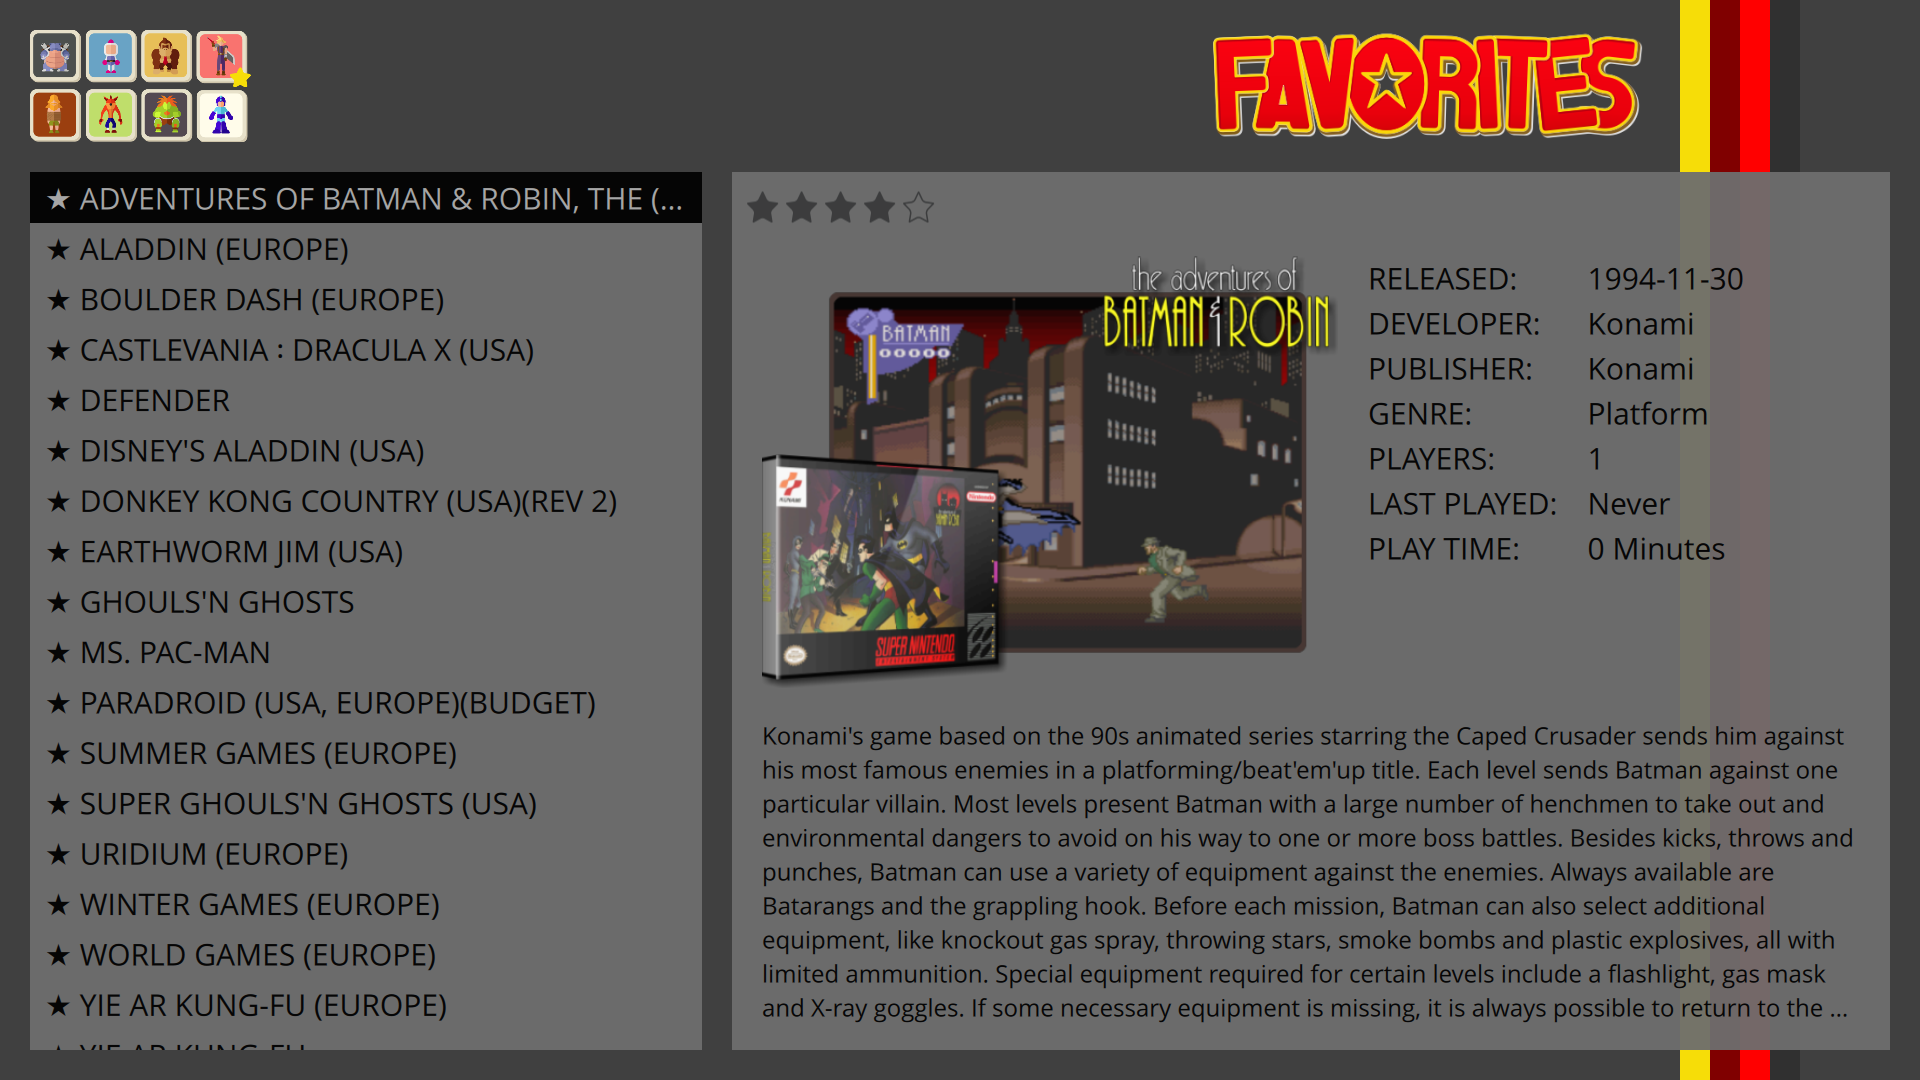
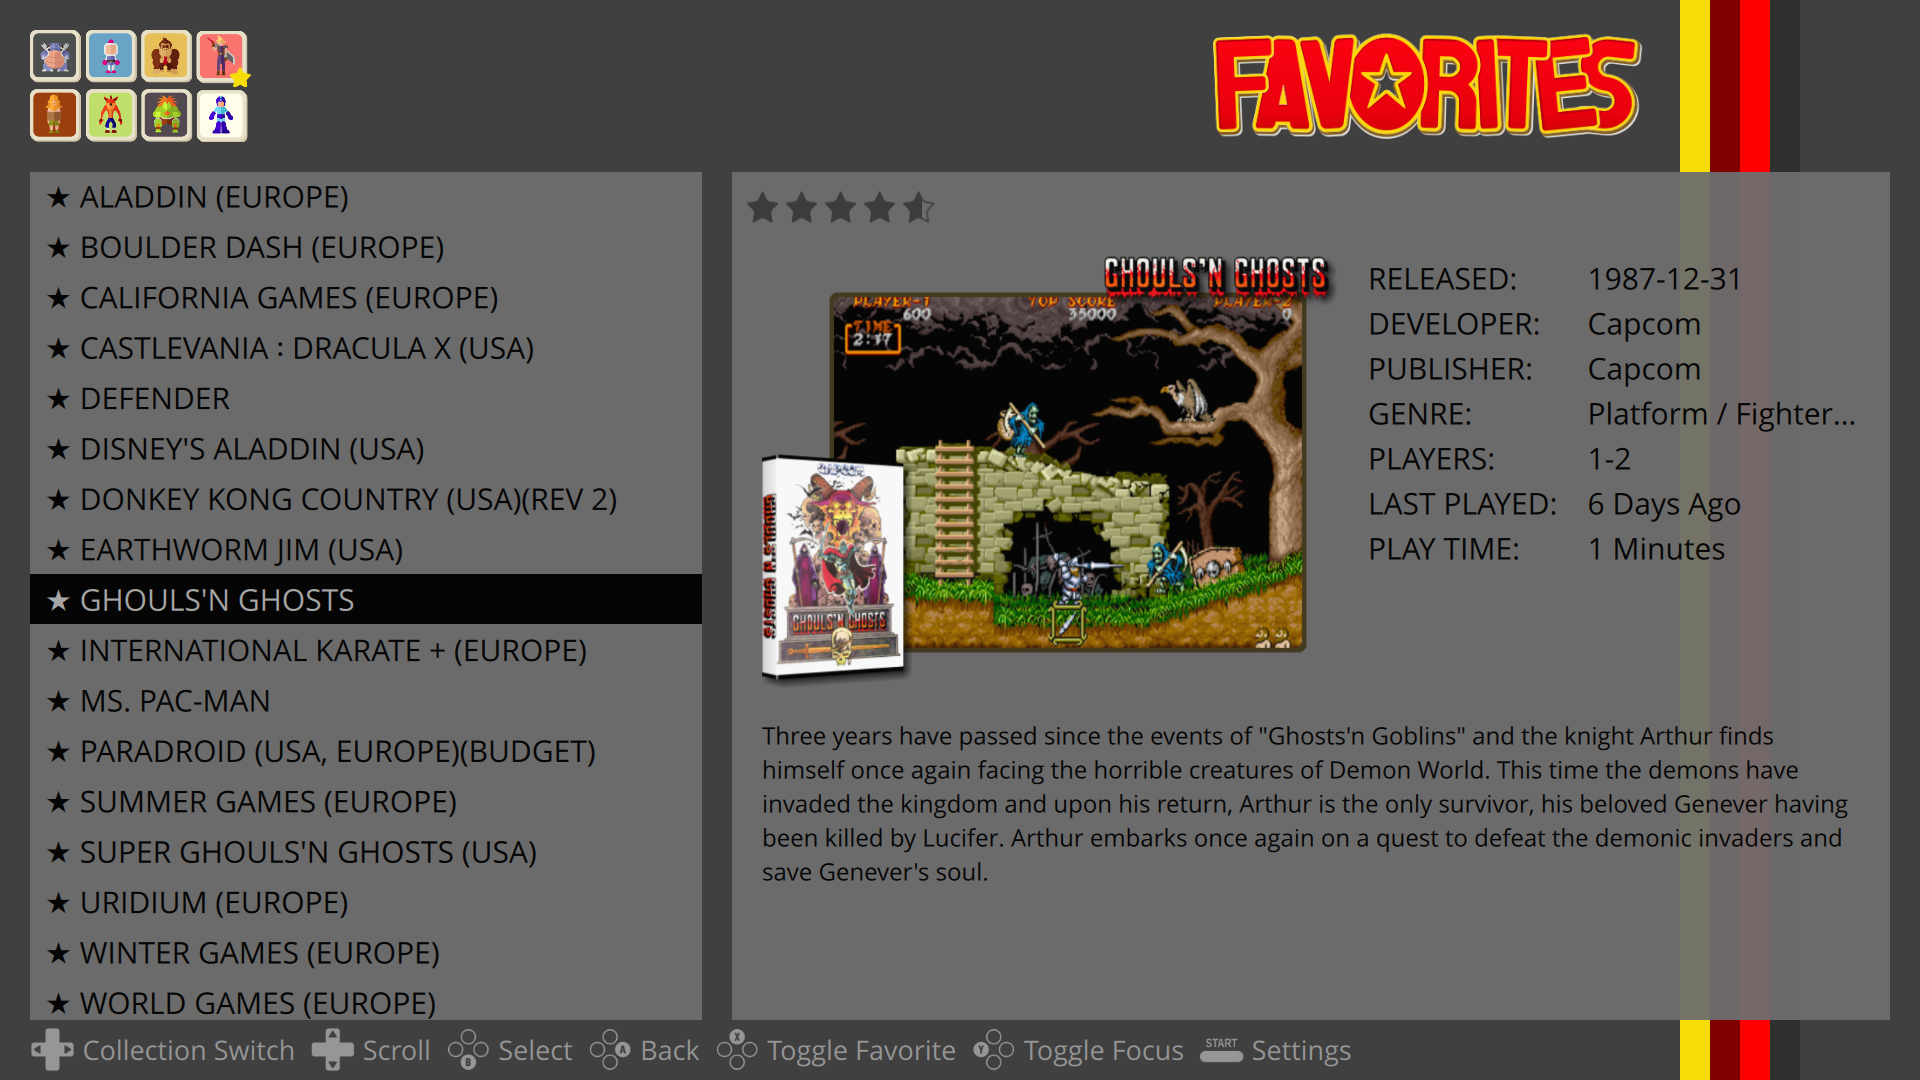
add help footer, updated screenshots

diff --git a/DetailsView.qml b/DetailsView.qml
@@ -229,8 +229,7 @@ FocusScope {
             top: header.bottom
             left: parent.left
             leftMargin: root.padding
-            bottom: parent.bottom
-            bottomMargin: root.padding
+            bottom: footer.top
         }
         width: parent.width * 0.35
         height: parent.height
@@ -307,8 +306,7 @@ FocusScope {
             leftMargin: root.padding
             right: parent.right
             rightMargin: root.padding
-            bottom: parent.bottom
-            bottomMargin: root.padding
+            bottom: footer.top
         }
 
         color: "#6D6D6D"
@@ -351,7 +349,7 @@ FocusScope {
                         currentGame.assets.boxFront ||
                         currentGame.assets.logo ||
                         currentGame.assets.marquee
-                sourceSize { width: 400; height: 400 } // optimization (max size)
+                sourceSize { width: vpx(400); height: vpx(400) } // optimization (max size)
                 fillMode: Image.PreserveAspectFit
             }
         }
@@ -464,6 +462,75 @@ FocusScope {
                     gameList.forceActiveFocus();
                     return;
                 }
+        }
+    }
+    
+    Rectangle {
+        id: footer
+        anchors {
+            bottom: parent.bottom
+            left: parent.left
+            leftMargin: root.padding
+            right: parent.right
+            rightMargin: root.padding
+        }
+        height: vpx(40)
+        color: "#00000000"
+
+        FooterImage {
+            id: leftRightButton
+            anchors.left: parent.left
+            anchors.bottom: parent.bottom
+            imageSource: "assets/dpad_leftright.svg"
+            imageLabel: "Collection Switch"
+        }
+
+        FooterImage {
+            id: upDownButton
+            anchors.left: leftRightButton.right
+            anchors.bottom: parent.bottom
+            imageSource: "assets/dpad_updown.svg"
+            imageLabel: "Scroll"
+        }
+
+        FooterImage {
+            id: bButton
+            anchors.left: upDownButton.right
+            anchors.bottom: parent.bottom
+            imageSource: "assets/button_b.svg"
+            imageLabel: "Select"
+        }
+
+        FooterImage {
+            id: aButton
+            anchors.left: bButton.right
+            anchors.bottom: parent.bottom
+            imageSource: "assets/button_a.svg"
+            imageLabel: "Back"
+        }
+
+        FooterImage {
+            id: xButton
+            anchors.left: aButton.right
+            anchors.bottom: parent.bottom
+            imageSource: "assets/button_x.svg"
+            imageLabel: "Toggle Favorite"
+        }
+
+        FooterImage {
+            id: yButton
+            anchors.left: xButton.right
+            anchors.bottom: parent.bottom
+            imageSource: "assets/button_y.svg"
+            imageLabel: "Toggle Focus"
+        }
+
+        FooterImage {
+            id: startButton
+            anchors.left: yButton.right
+            anchors.bottom: parent.bottom
+            imageSource: "assets/button_start.svg"
+            imageLabel: "Settings"
         }
     }
 }

diff --git a/CollectionsView.qml b/CollectionsView.qml
@@ -288,4 +288,41 @@ FocusScope {
             font.family: "Open Sans"
         }
     }
+
+    Rectangle {
+        id: footer
+        anchors {
+            bottom: parent.bottom
+            left: parent.left
+            leftMargin: root.padding
+            right: parent.right
+            rightMargin: root.padding
+        }
+        height: vpx(40)
+        color: "#00000000"
+
+        FooterImage {
+            id: leftRightButton
+            anchors.left: parent.left
+            anchors.bottom: parent.bottom
+            imageSource: "assets/dpad_leftright.svg"
+            imageLabel: "Collection Switch"
+        }
+
+        FooterImage {
+            id: bButton
+            anchors.left: leftRightButton.right 
+            anchors.bottom: parent.bottom
+            imageSource: "assets/button_b.svg"
+            imageLabel: "Select"
+        }
+
+        FooterImage {
+            id: startButton
+            anchors.left: bButton.right
+            anchors.bottom: parent.bottom
+            imageSource: "assets/button_start.svg"
+            imageLabel: "Settings"
+        }
+    }
 }

diff --git a/FooterImage.qml b/FooterImage.qml
@@ -1,0 +1,34 @@
+import QtQuick 2.0
+
+// The collection logo on the collection carousel. Just an image that gets scaled
+// and more visible when selected. Also has a fallback text if there's no image.
+Item {
+    property string imageSource
+    property string imageLabel
+    height: vpx(40)
+    width: vpx(15) + label.contentWidth + image.paintedWidth
+    opacity: 0.45
+
+    Image {
+        id: image
+        anchors.left: parent.left
+        anchors.verticalCenter: parent.verticalCenter
+        height: vpx(30)
+
+        source: imageSource
+        sourceSize { width: vpx(40); height: vpx(40) }
+        fillMode: Image.PreserveAspectFit
+        asynchronous: true
+    }
+
+    Text {
+        id: label
+        anchors.left: image.right
+        anchors.leftMargin: vpx(5)
+        anchors.verticalCenter: parent.verticalCenter
+        color: "#FFFFFF"
+        font.family: "Open Sans"
+        font.pixelSize: vpx(18)
+        text: imageLabel 
+    }
+}
